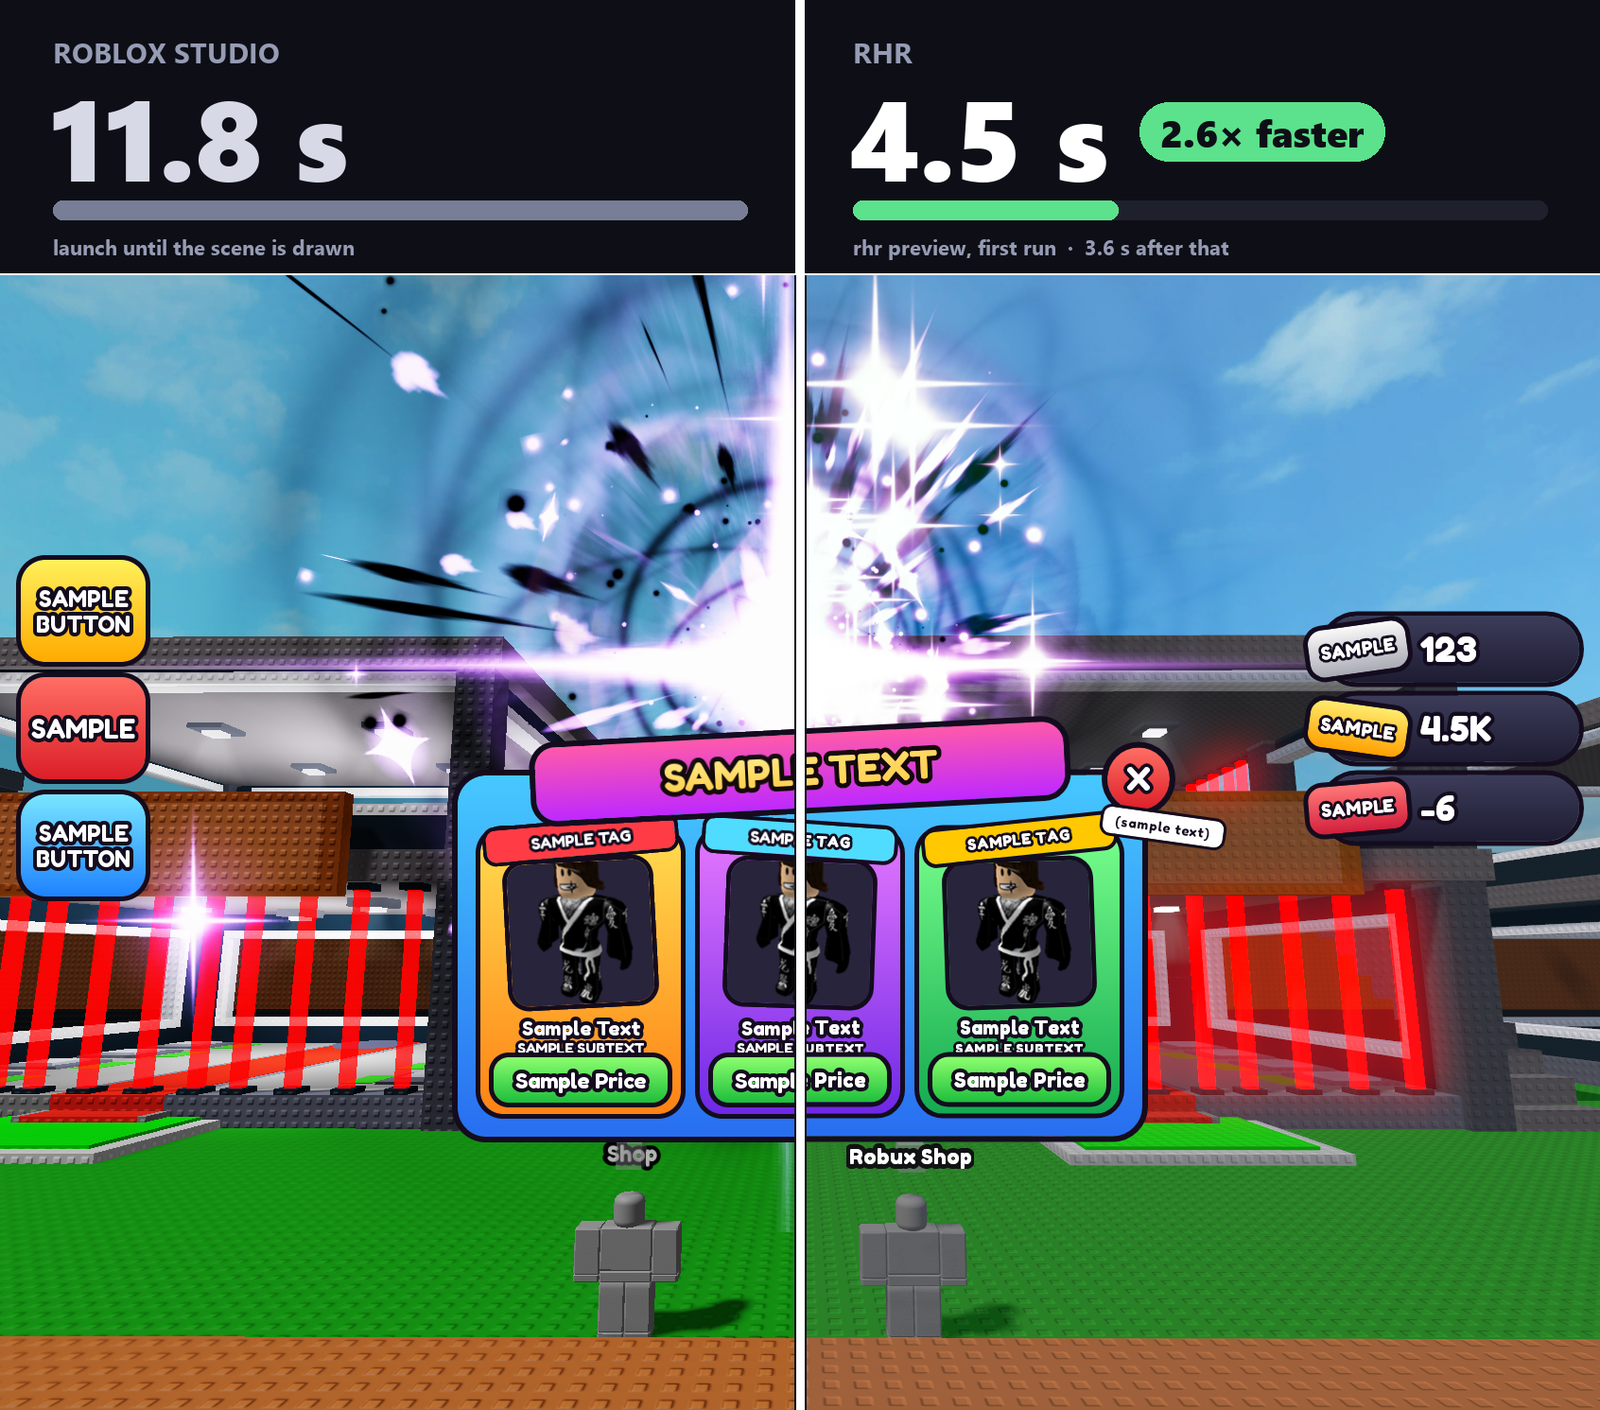
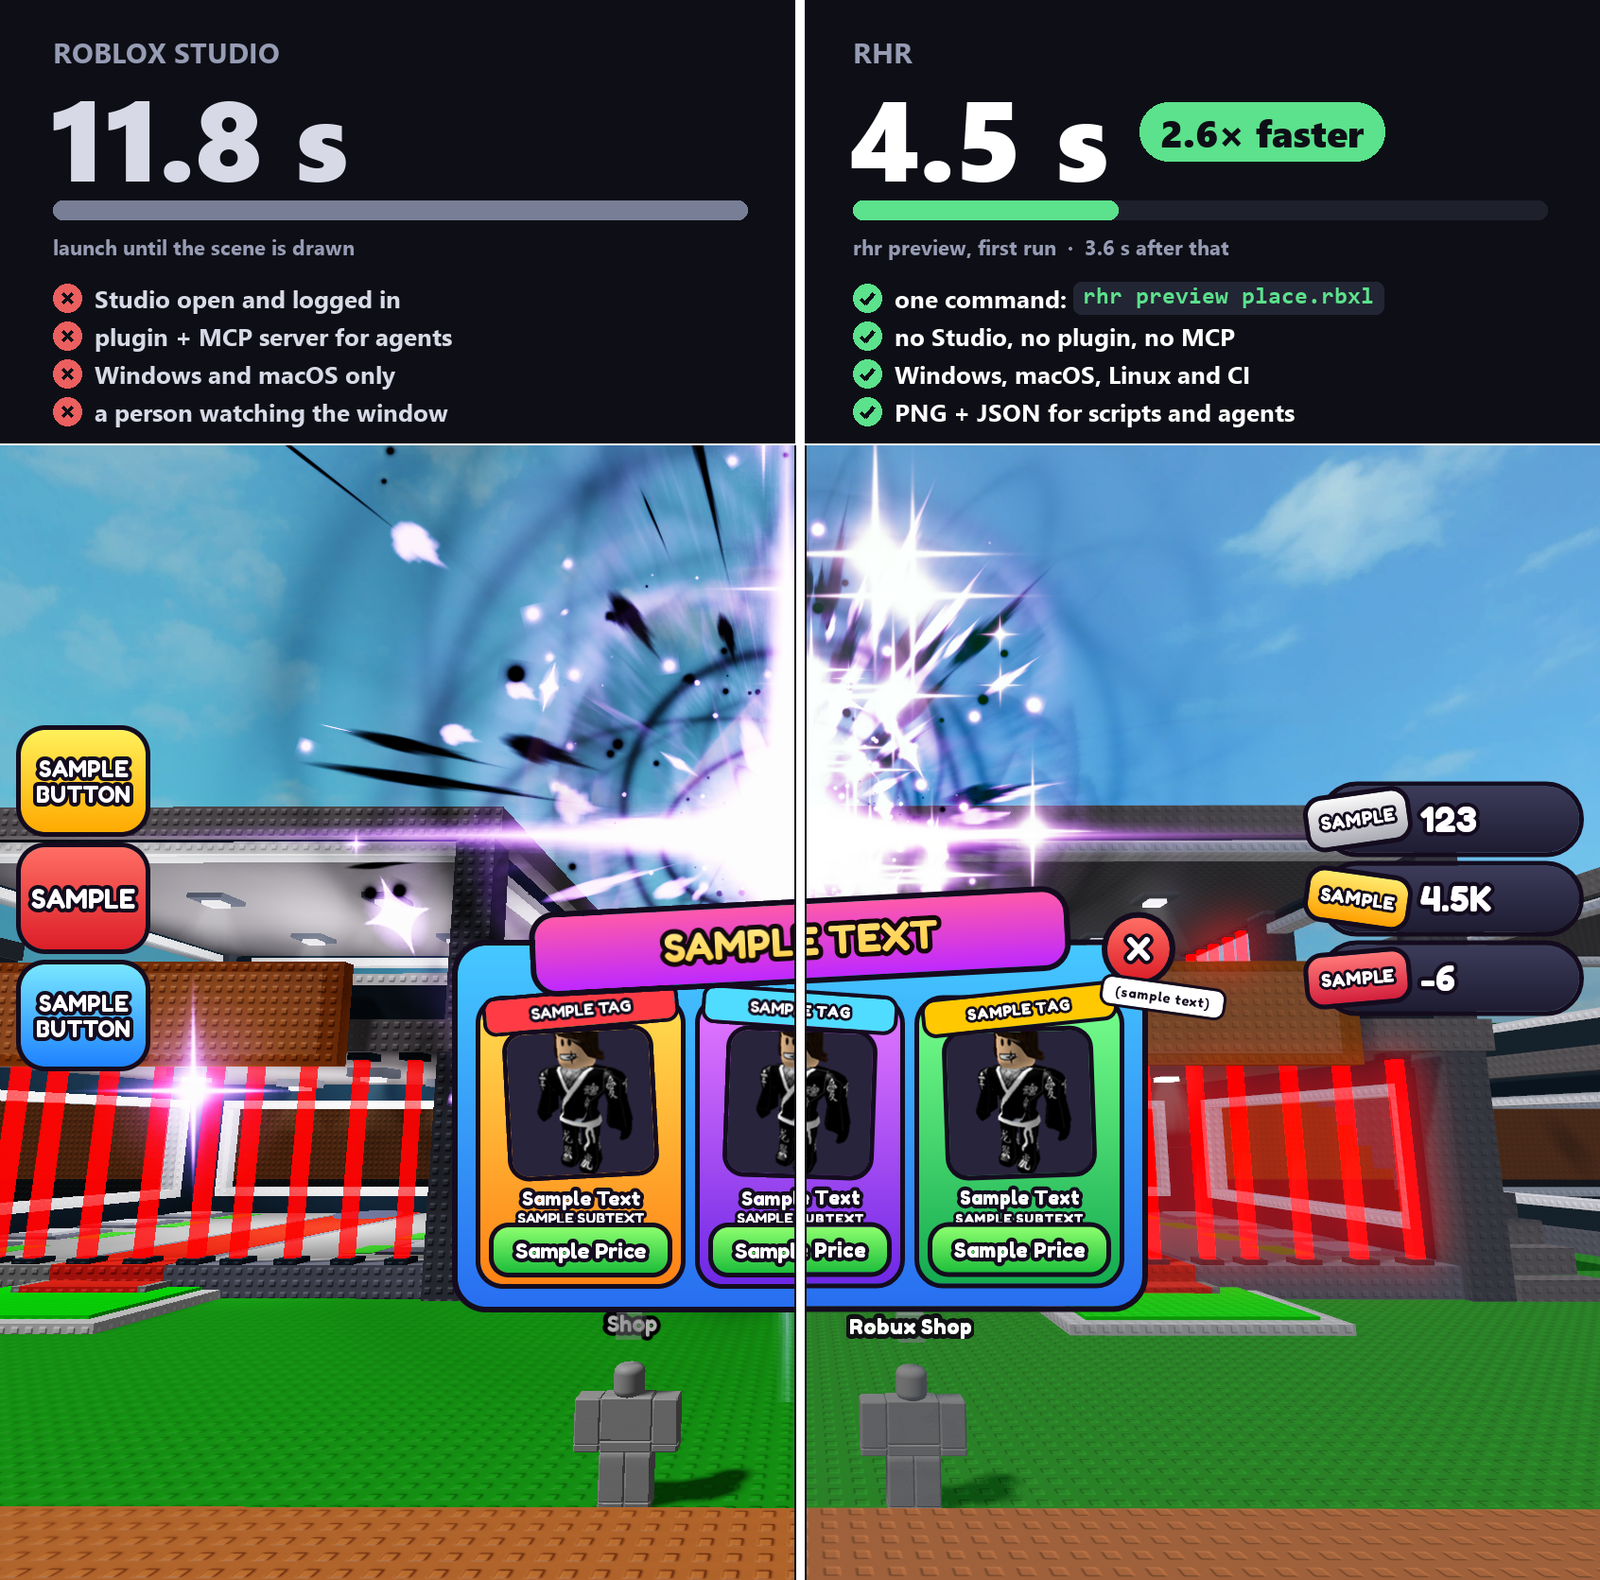
README hero: what each side needs (Studio + plugin + MCP vs one rhr command, platforms, PNG + JSON)

diff --git a/README.md b/README.md
@@ -14,7 +14,7 @@
 </p>
 
 <p align="center">
-  <img src="docs/images/hero.png" width="100%" alt="Speed banner: Roblox Studio takes 11.8 s from launch until the scene is drawn, rhr preview takes 4.5 s on a first run (3.6 s after that), 2.6 times faster. Below it, one scene split down the middle: the left half is a Roblox Studio screenshot, the right half is rhr preview of the same file from the same camera: a purple explosion effect over two studded shops, a loud sample shop UI with image cards, and two rigs under Shop signs">
+  <img src="docs/images/hero.png" width="100%" alt="Speed banner: Roblox Studio takes 11.8 s from launch until the scene is drawn, rhr preview takes 4.5 s on a first run (3.6 s after that), 2.6 times faster. Studio needs to be open and logged in, with a plugin and MCP server for agents; rhr is one command with no Studio, plugin or MCP, runs on Windows, macOS, Linux and CI, and returns PNG and JSON for scripts and agents. Below it, one scene split down the middle: the left half is a Roblox Studio screenshot, the right half is rhr preview of the same file from the same camera: a purple explosion effect over two studded shops, a loud sample shop UI with image cards, and two rigs under Shop signs">
 </p>
 <p align="center"><sub>Same place, same camera, same PC. Times run from launch until the picture is there. Left: Roblox Studio. Right: <code>rhr preview</code>. Effects are one still moment, so individual particles differ.</sub></p>
 
